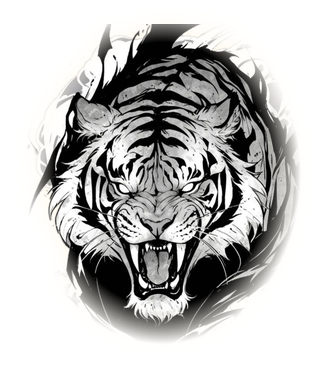
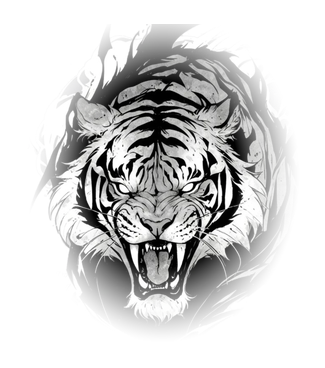
vfx-lab: Hổ Khiếu — bỏ quầng viền quanh hổ, mờ rìa rộng hơn, trong suốt hơn (0.6), đặt cao trên đầu không che nhân vật
Claude-Session: https://claude.ai/code/session_014A94BHnyL4tu48AS77QbVM

Changed region(s): [[0.0923, 0.0598, 0.9231, 0.9266]]

diff --git a/src/vfx/skillFx.ts b/src/vfx/skillFx.ts
@@ -615,10 +615,10 @@ const hoKhieu: Fx = (s, aw) => {
   const k = s.kit, sc = k.scene, h = H(s);
   const R = aw ? 190 : 125;
   // 1) hư ảnh đầu hổ hiện trên đầu nhân vật: bung lên, rung khi gầm, rồi tan
-  const top = pt(h.x, h.y - 62);
+  const top = pt(h.x, h.y - 105);                                  // cao hẳn trên đầu, không che nhân vật
   const tg = sc.add.image(top.x, top.y + 12, TIGER_HEAD).setDepth(15).setAlpha(0).setScale(0.12);
   const S0 = aw ? 0.36 : 0.3;
-  sc.tweens.add({ targets: tg, alpha: 0.95, scale: S0, y: top.y, duration: 220, ease: 'Back.easeOut' });
+  sc.tweens.add({ targets: tg, alpha: 0.6, scale: S0, y: top.y, duration: 220, ease: 'Back.easeOut' });
   k.later(240, () => {
     sc.tweens.add({ targets: tg, scale: S0 * 1.12, duration: 70, yoyo: true, repeat: 2, ease: 'Sine.easeInOut' });   // gầm
     sc.tweens.add({ targets: tg, angle: { from: -3, to: 3 }, duration: 45, yoyo: true, repeat: 4 });

diff --git a/src/vfxlab/main.ts b/src/vfxlab/main.ts
@@ -36,7 +36,7 @@ class LabScene extends Phaser.Scene {
   preload(): void {
     this.load.spritesheet('hero', '/ui/hero_b_walk.png', { frameWidth: 52, frameHeight: 68 });
     this.load.image(QI_SWORD, '/vfx/qi_sword_light.png');
-    this.load.image(TIGER_HEAD, '/vfx/tiger_head.png?v=1');
+    this.load.image(TIGER_HEAD, '/vfx/tiger_head.png?v=2');
     this.load.image(ARROW_HEAD, '/vfx/arrow_head.png?v=1');
     for (const [n, key] of Object.entries(FIST_TEX)) this.load.image(key, `/vfx/fist_${n}.png?v=3`);
     for (const [n, key] of Object.entries(SPEAR_TEX)) this.load.image(key, `/vfx/spear_${n}.png?v=1`);

diff --git a/tools/art/tiger_fx.py b/tools/art/tiger_fx.py
@@ -41,7 +41,7 @@ def main():
     hh, ww = al.shape
     yy, xx = np.mgrid[0:hh, 0:ww].astype(float)
     rr = np.hypot((xx - ww / 2) / (ww / 2), (yy - hh * 0.47) / (hh * 0.53))
-    al *= np.clip((1.0 - rr) / 0.22, 0, 1)
+    al *= np.clip((1.0 - rr) / 0.45, 0, 1) ** 1.5           # mờ dần rất rộng → không thấy rìa
     img.putalpha(Image.fromarray(al.astype(np.uint8)))
     k = SIZE / max(img.size)
     img = img.resize((round(img.width * k), round(img.height * k)), Image.LANCZOS)
@@ -55,7 +55,7 @@ def main():
     halo.putalpha(sil.point(lambda v: int(v * 0.75)))
     hp = np.array(halo)
     hp[..., :3] = (255, 248, 230)
-    canvas.alpha_composite(Image.fromarray(hp, 'RGBA'))
+    # (bỏ quầng sáng viền ngoài — tạo thành rìa giới hạn lộ rõ)
     canvas.alpha_composite(img, (pad, pad))
     canvas.save(os.path.join(ROOT, 'public', 'vfx', 'tiger_head.png'))
     pv = Image.new('RGBA', (canvas.width + 20, canvas.height + 20), (28, 26, 40, 255))
